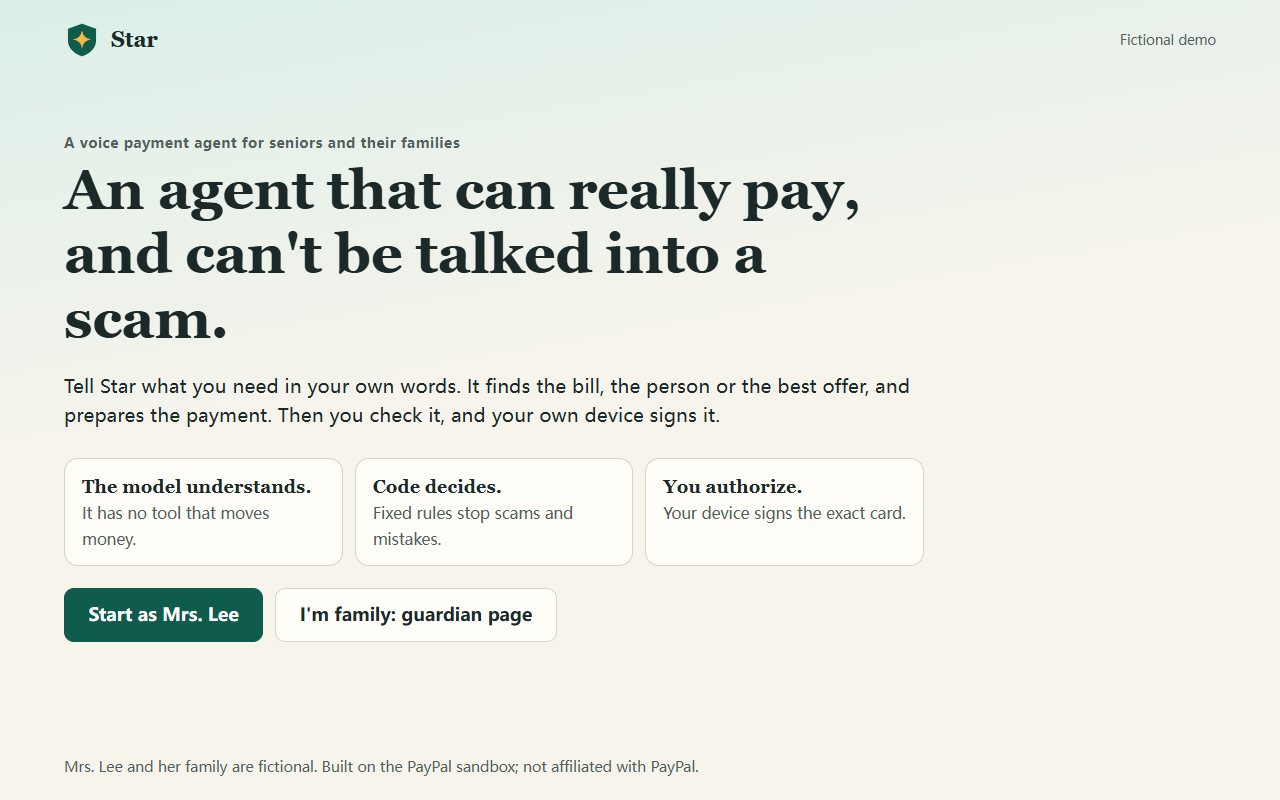
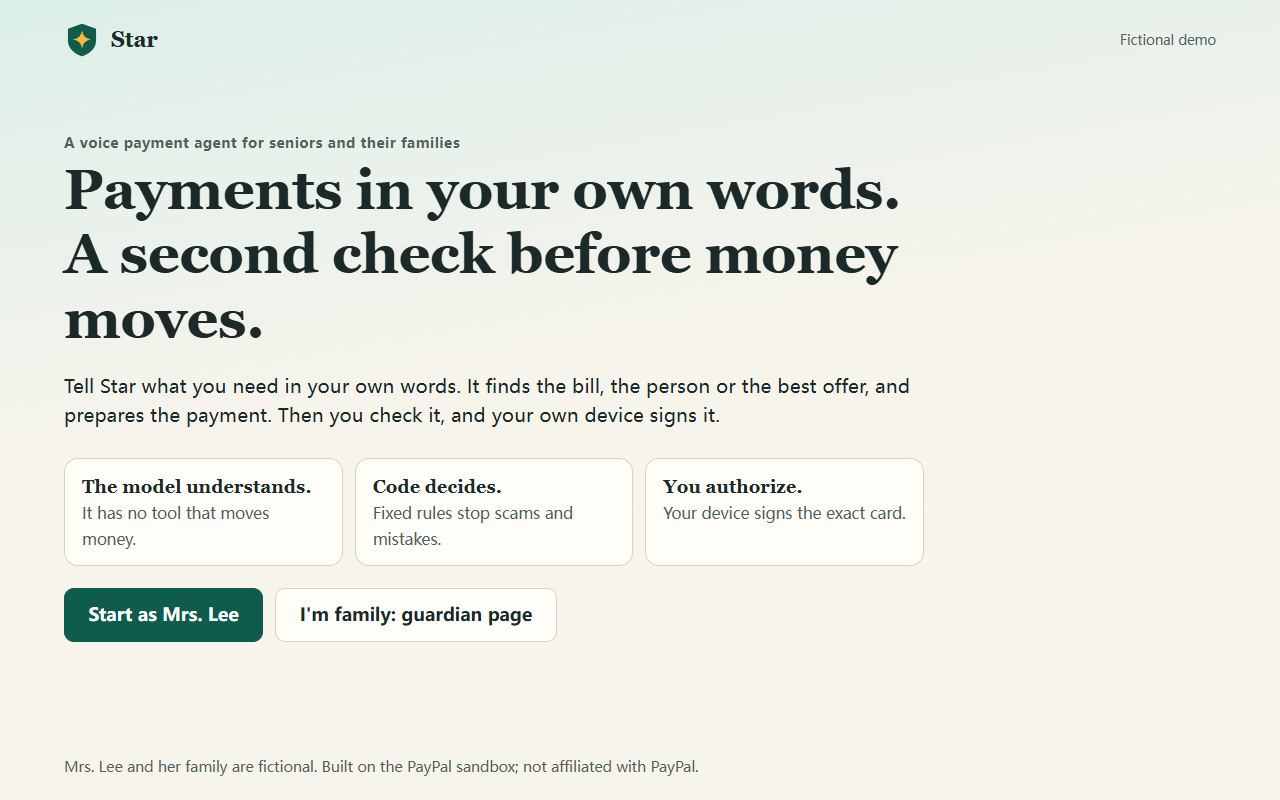
Keep demo claims specific and record clean-checkout and current video evidence

Changed region(s): [[0.0312, 0.2188, 0.7188, 0.3438], [0.0312, 0.375, 0.2188, 0.4375]]

diff --git a/web/index.html b/web/index.html
@@ -5,7 +5,7 @@
   <meta name="viewport" content="width=device-width, initial-scale=1">
   <meta name="theme-color" content="#0f5c4d">
   <meta name="style-nonce" content="__STYLE_NONCE__">
-  <meta name="description" content="Star is a voice payment agent for seniors and their families, built on the PayPal sandbox. It can really pay, and it can't be talked into a scam.">
+  <meta name="description" content="Voice payments for seniors and their families, with fixed checks and a device signature before money can move. A PayPal sandbox prototype.">
   <title>Star Family Payments</title>
   <link rel="icon" href="/favicon.svg" type="image/svg+xml">
   <link rel="stylesheet" href="/styles.css">
@@ -20,7 +20,7 @@
     </header>
     <main class="welcome-main">
       <p class="eyebrow">A voice payment agent for seniors and their families</p>
-      <h1 id="welcome-title">An agent that can really pay, and can't be talked into a scam.</h1>
+      <h1 id="welcome-title">Payments in your own words. A second check before money moves.</h1>
       <p class="welcome-lead">Tell Star what you need in your own words. It finds the bill, the person or the best offer, and prepares the payment. Then you check it, and your own device signs it.</p>
       <ol class="welcome-rule">
         <li><b>The model understands.</b><span>It has no tool that moves money.</span></li>

diff --git a/scripts/capture_demo.py b/scripts/capture_demo.py
@@ -126,7 +126,7 @@ def demo(r: Run) -> None:
 
     r.scene("Hook: landing")
     page.goto(r.base + "/")
-    expect(page.locator("#welcome-title")).to_contain_text("really pay")
+    expect(page.locator("#welcome-title")).to_contain_text("A second check before money moves")
     time.sleep(0.5)
     r.shot(page, "01-landing")
     time.sleep(9)

diff --git a/docs/VERIFICATION.md b/docs/VERIFICATION.md
@@ -10,6 +10,6 @@ Python 3.14.7 on Windows, offline model and PayPal simulator. No real payment cr
 - Gitleaks 8.30.1 scanned the full local history and working folder. No actionable credential was found. The history finding at `eae29f4:app/lab.py:239` is the constant `idempotency_key="attack"`; two working-folder findings are generated idempotency identifiers in ignored `eval/contract-report.json`. These are not service credentials. No broad scanner exclusions were added.
 - `scripts/capture_demo.py --publish`: completed; 13 current screenshots and silent customer/guardian footage. Customer footage is approximately 161 seconds. The final competition video still needs narration and a public upload.
 
-Clean-checkout results are appended after they run. Hosted CI is a separate environment; local passing results do not establish a CI pass.
+Fresh local clone of `a71418a`, with no ignored data or output files: 489/489 tests passed with no skips, and the full Edge browser run passed. No tracked file exceeds 5 MB. Hosted CI is a separate environment; local passing results do not establish a CI pass.
 
 Unverified: actual PayPal sandbox API acceptance, online-model behaviour, hosted deployment, real microphone and mobile passkeys, and older-adult usability. No real-world fraud prevention or user-adoption claim is made. Silent local footage is draft material, not a final narrated competition video.

diff --git a/docs/SUBMISSION_CHECKLIST.md b/docs/SUBMISSION_CHECKLIST.md
@@ -23,7 +23,7 @@ Deadline: **Nov 12, 2026, 12:00 PT** (Nov 13, 04:00 Singapore time). Nothing bel
 ## Final checks
 
 - [ ] Fill in every **[TEAM: ...]** in `docs/SUBMISSION.md`, and confirm "Other AI tools used".
-- [ ] Make the repository public, fix the "Payal" typo in its description, and add collaborators. Check GitHub detects the licence.
+- [ ] After rights are confirmed, make the repository public and add the intended collaborators. The PayPal description typo has been corrected. Check GitHub detects the licence.
 - [ ] Open the National Elder Fraud Hotline link in `docs/IMPACT.md` and confirm the number. If `SCAM_HOTLINE_COUNTRY=SG` is ever shown, verify that number first; it's marked as not re-verified.
 - [ ] As far as reasonably possible, check that the fictional merchants and people (`app/wallet/catalogue.py`, `app/wallet/ledger.py`) aren't real businesses or people.
 - [ ] Fill in and submit the form.
